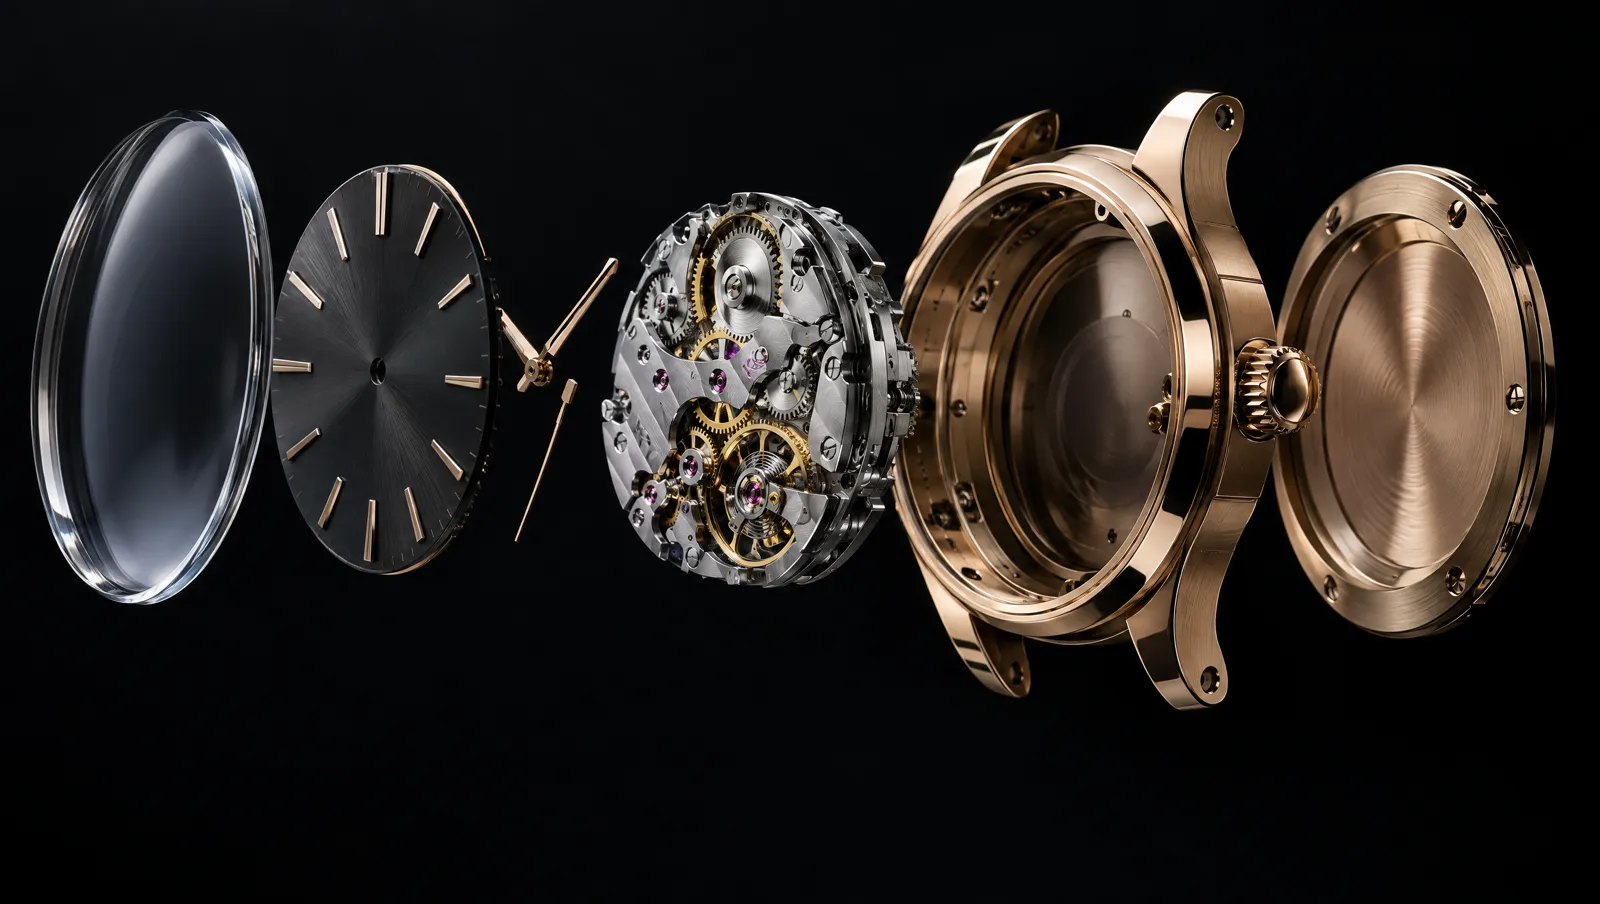
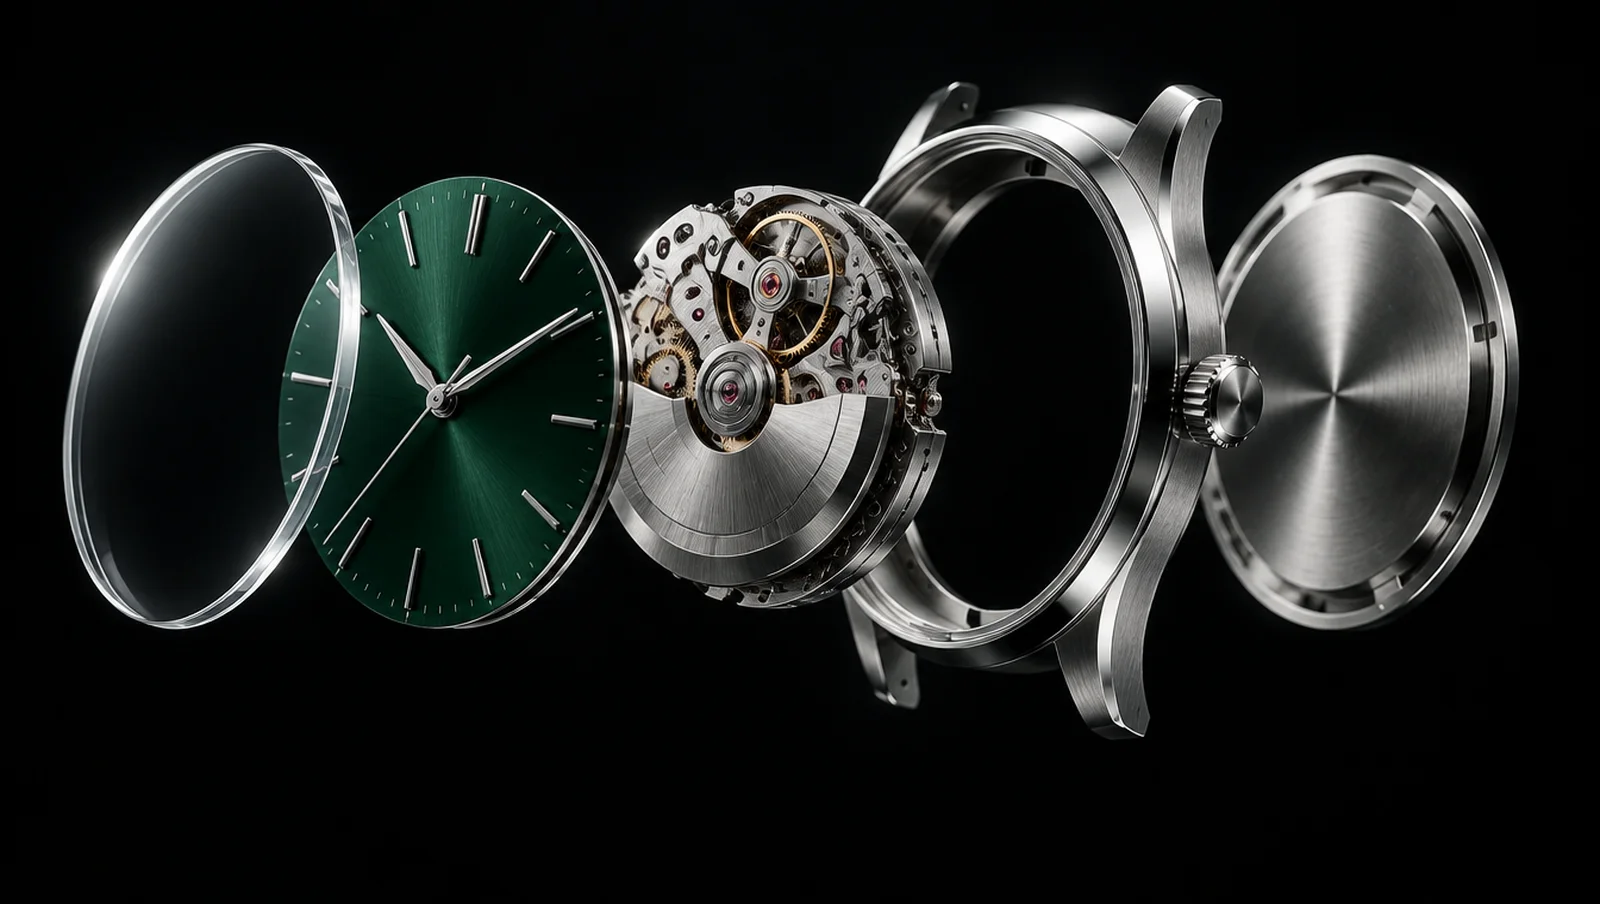
feat: explodido em aço, coerente com o hero

diff --git a/index.html b/index.html
@@ -49,14 +49,14 @@
               <img class="abertura__hero" src="/img/hero.webp" width="1600" height="900" loading="lazy" decoding="async"
                 alt="" aria-hidden="true" />
               <img class="abertura__explodido" src="/img/explodido.webp" width="1600" height="900" loading="lazy" decoding="async"
-                alt="Peças de um relógio mecânico separadas e alinhadas: cristal, mostrador escuro com ponteiros, movimento com engrenagens e rubis, caixa e fundo, em acabamento dourado." />
+                alt="O relógio desmontado num eixo, da esquerda para a direita: cristal, mostrador verde com ponteiros, movimento automático com massa oscilante e rubis, caixa de aço e fundo de aço." />
               <svg class="abertura__traco" viewBox="0 0 1600 900" aria-hidden="true" focusable="false">
                 <ellipse cx="763" cy="390" rx="180" ry="215" pathLength="1" />
                 <path d="M 879 225 L 1056 110" pathLength="1" />
               </svg>
               <span class="abertura__rotulo" aria-hidden="true">Movimento</span>
             </div>
-            <figcaption>Fig. 2 · Por dentro do calibre. Ilustração em outro acabamento (dourado): a caixa do Calibre Norte é de aço.</figcaption>
+            <figcaption>Fig. 2 · Por dentro do calibre: cristal, mostrador, movimento, caixa e fundo. Imagem ilustrativa.</figcaption>
           </figure>
         </div>
       </section>
